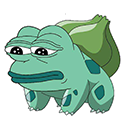
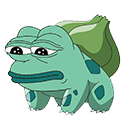
added animations+low hp images

diff --git a/src/Pokemon.java b/src/Pokemon.java
@@ -38,7 +38,6 @@ public class Pokemon extends Animator {
 
 	public void define() {
 		if (name.equals("Pikachu")) {
-			//System.out.println(currenthealth);
 			setImage("pika.png");
 		} else if (name.equals("Bulbasaur")) {
 			setImage("bulbasaur.png");
@@ -81,6 +80,21 @@ public class Pokemon extends Animator {
 	}
 
 	public void physics() {
+		if (name.equals("Pikachu") && currenthealth<=health*.5 ) {
+			setImage("pikachudistressed.png");
+		}
+		if (name.equals("Bulbasaur") && currenthealth<=health*.5 ) {
+			setImage("bulbasaurdistressed.png");
+		}
+		if (name.equals("Jigglypuff") && currenthealth<=health*.5 ) {
+			setImage("jigglypuffdistressed.png");
+		}
+		if (name.equals("Greninja") && currenthealth<=0 ) {
+			setImage("greninjadistressed.png");
+		}
+		if (name.equals("Psyduck") && currenthealth<=health*.5 ) {
+			setImage("psyduckdistressed.png");
+		}
 		float[] deltas = { 0.0f, 0.0f, 0.0f };
 		if (animate) {
 			animate = true;
@@ -94,11 +108,15 @@ public class Pokemon extends Animator {
 				case "Tackle":
 				case "QuickAttack":
 				case "Nuzzle":
+				case "Nightslash":
 				case "Pound":
 					deltas = al.nextFrame("QuickAttack", frame_counter, this);
 					break;
+				
+//					effect.darkenScreen=true;
+//					deltas = al.nextFrame("QuickAttack", frame_counter, this);
+//					break;
 				case "Icebeam":
-				case "Nightslash":
 				case "Confusion":
 				case "Leechseed":
 				case "Thunder":
@@ -113,6 +131,7 @@ public class Pokemon extends Animator {
 				// faint animation here
 			default:
 				cleanUp();
+				
 			}
 
 			if (!animate) {
@@ -132,7 +151,6 @@ public class Pokemon extends Animator {
 			angle += deltas[2];
 
 			doRotation();
-
 		}
 
 	}

diff --git a/src/Effect.java b/src/Effect.java
@@ -4,7 +4,7 @@ import java.awt.Graphics2D;
 public class Effect extends Animator {
 	private Pokemon p;
 	private AnimationLoader al;
-	private boolean leech=false;
+	private boolean ice,leech=false;
 	private boolean imgLoaded = false;
 	public boolean darkenScreen = false;
 
@@ -26,6 +26,8 @@ public class Effect extends Animator {
 		animate = false;
 		darkenScreen = false;
 		imgLoaded = false;
+		ice=false;
+		leech=false;
 	}
 
 	private int frame_counter = 0;
@@ -67,6 +69,21 @@ public class Effect extends Animator {
 		}
 		deltas = al.nextFrame(name, frame_counter, this);
 		break;
+		case "Icebeam":
+			ice=true;
+			loadImage("icebeam.png");
+			if (frame_counter == 0) {
+				if (Game.opponentsattack)
+					setPos(450, 35);
+			else
+				setPos(140, 200);
+		}
+		deltas = al.nextFrame(name, frame_counter, this);
+		break;
+//		case "Nightslash":
+//			darkenScreen=true;
+//			deltas = al.nextFrame("QuickAttack", frame_counter, this);
+//			break;
 		}
 		
 			
@@ -82,11 +99,10 @@ public class Effect extends Animator {
 		/*
 		  if (opponent) { dx *= -1; dy *= -1; }
 		 */
-		if (Game.opponentsattack && leech==true ) {
+		if (Game.opponentsattack && ( leech==true|| ice==true) ) {
 			deltas[0] *= -.7;
 			deltas[1] *= -2;
 			deltas[2] *= -1;
-			leech=false;
 		}
 		x += deltas[0];
 		y += deltas[1];
